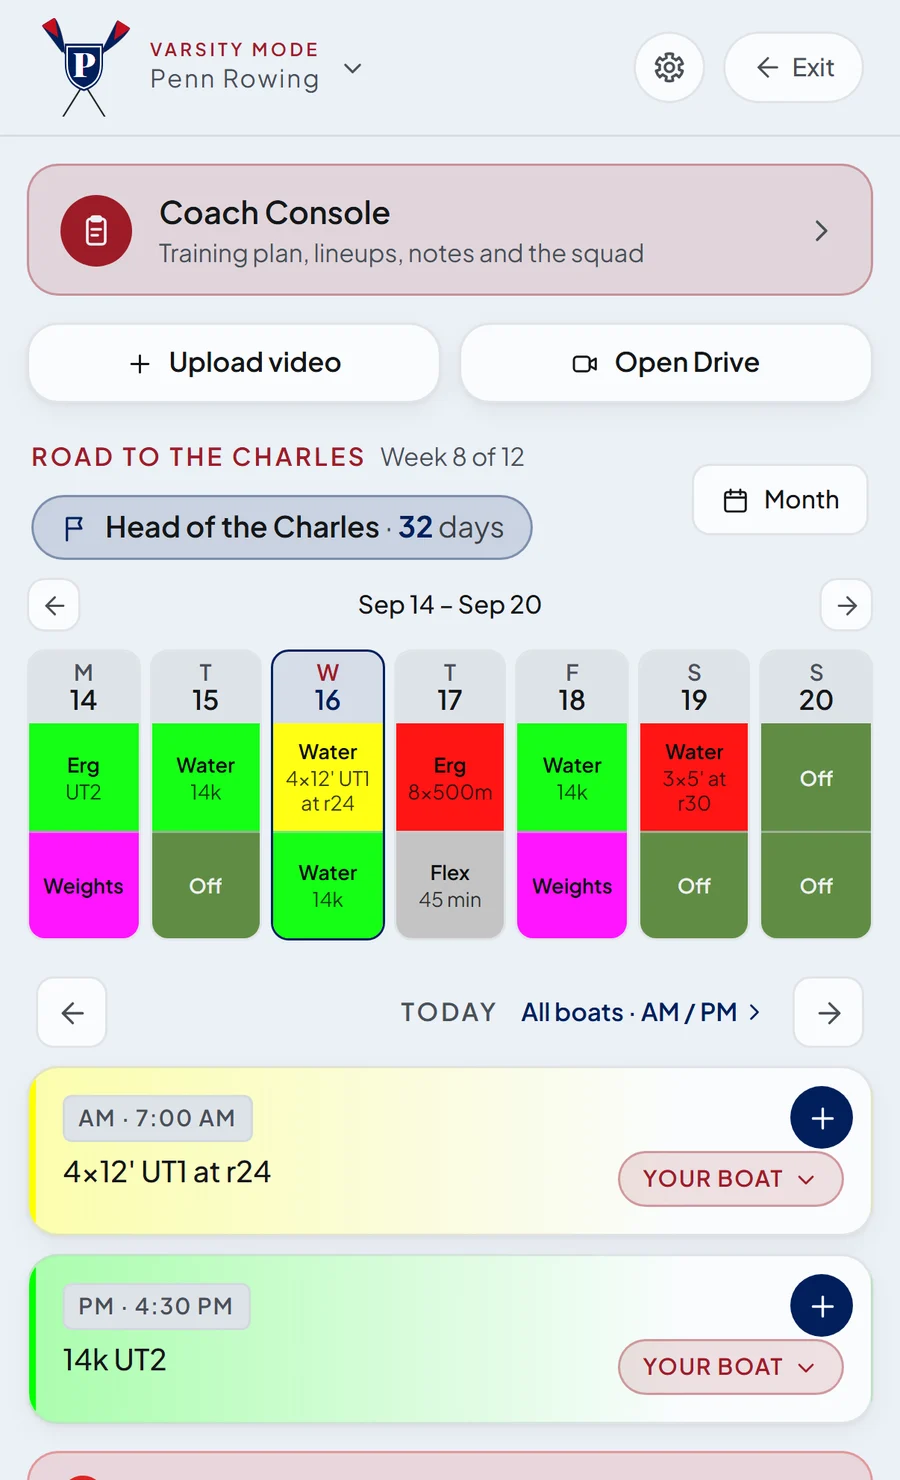
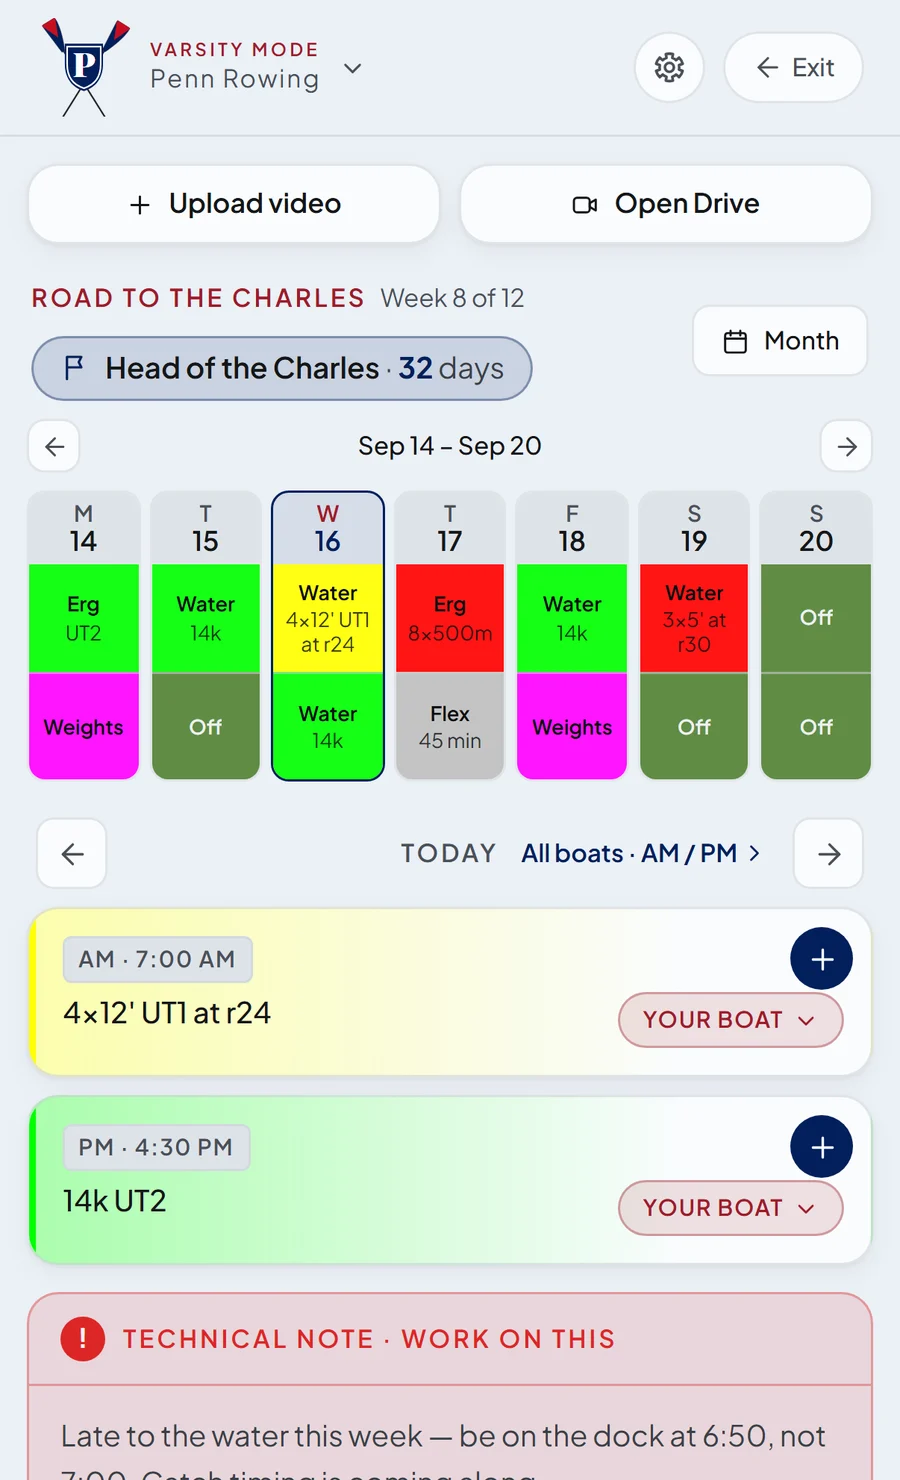
fix(landing): Varsity Home re-shot without the Coach Console door (demo account is an athlete now)
The demo account (John Brown, martinhouska701) was a coach on Harvard
Rowing, so his Home carried the Coach Console door — a coach's thing on a
rower's screenshot. Its varsity_members role is now athlete (old row backed
up in db/backups). tall-vhome and the eight closers/vhome-*.webp re-shot;
shotSize follows the new strip (900×1776).

diff --git a/lib/landingMotion.ts b/lib/landingMotion.ts
@@ -91,6 +91,6 @@ export const shotSize: Record<string, { w: number; h: number }> = {
   "16-varsity-stats.webp": { w: 900, h: 1480 },
   "tall-logsheet.webp": { w: 900, h: 4417 },
   "tall-profile.webp": { w: 900, h: 2176 },
-  "tall-vhome.webp": { w: 900, h: 1938 },
+  "tall-vhome.webp": { w: 900, h: 1776 },
   "tall-vprofile.webp": { w: 900, h: 2502 },
 };
